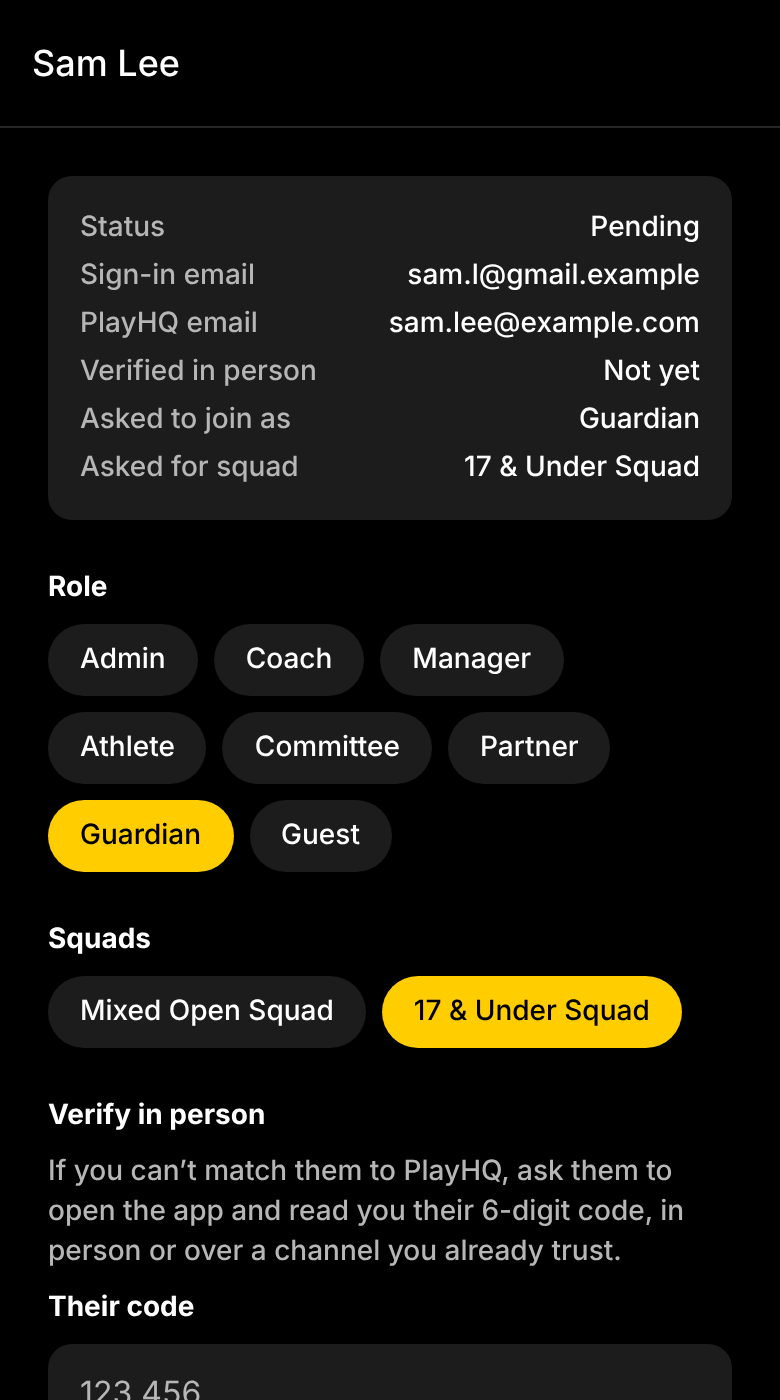
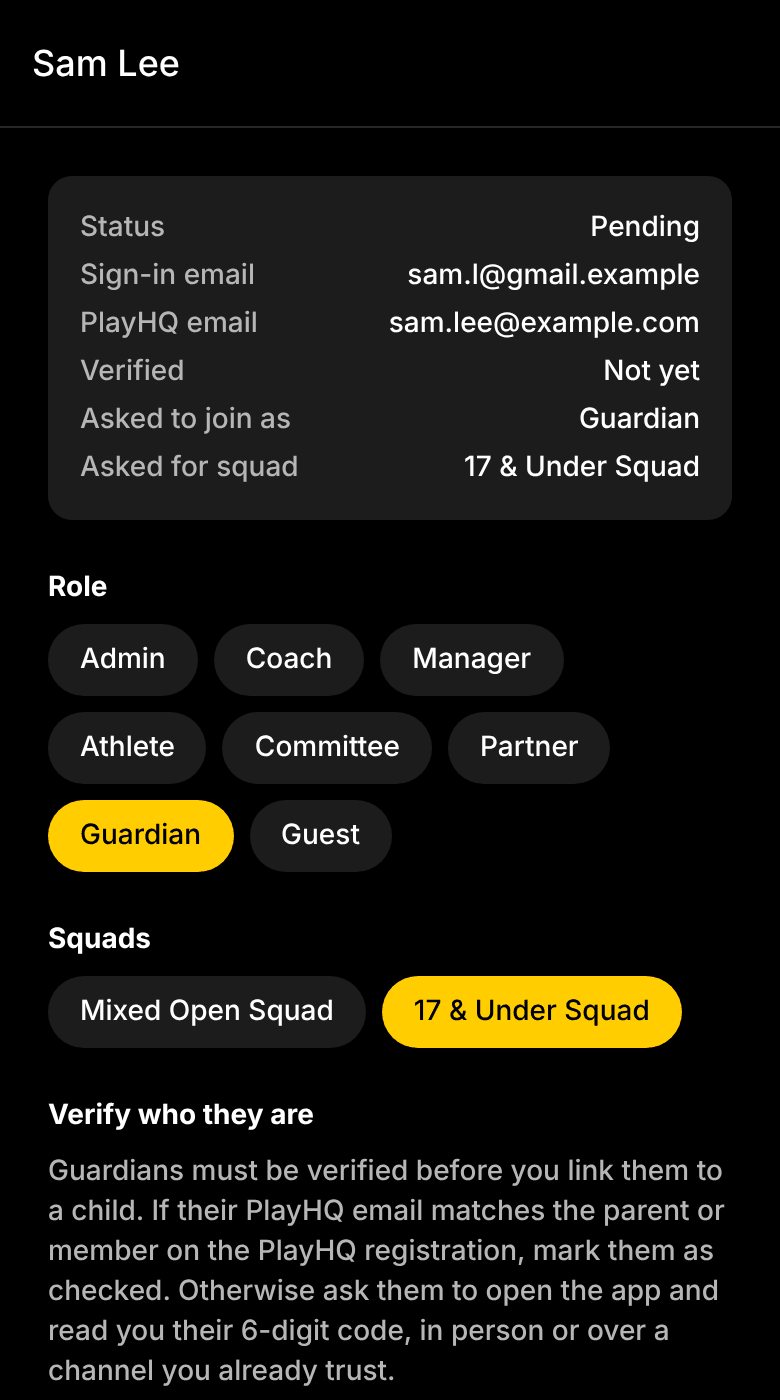
Add the child-safety changes to the user guide
Date of birth, verified guardians, Working With Children Checks, guardian
message copies, the check-in note line and the admin safety to-dos, with
updated screenshots.

Claude-Session: https://claude.ai/code/session_01Hk4Yufj92Hh8tciLvYkSd5

Changed region(s): [[0.0615, 0.7679, 0.9538, 1.0], [0.2462, 0.2457, 0.4, 0.2764], [0.3692, 0.7679, 0.4, 0.7986]]

diff --git a/docs/user-guide.md b/docs/user-guide.md
@@ -31,9 +31,9 @@ one or more **squads** or **teams** for the current season.
 | Role          | Who it's for                                                                                         |
 | ------------- | ---------------------------------------------------------------------------------------------------- |
 | **Athlete**   | Registered players.                                                                                  |
-| **Guardian**  | Parents and guardians of athletes under 17.                                                          |
-| **Coach**     | Head coaches and assistant coaches. Both have the same permissions; the title only shows who is who. |
-| **Manager**   | Squad and team managers.                                                                             |
+| **Guardian**  | Parents and guardians of athletes under 18.                                                          |
+| **Coach**     | Head coaches and assistant coaches. Both have the same permissions; the title only shows who is who. Need a current Working With Children Check. |
+| **Manager**   | Squad and team managers. Need a current Working With Children Check.                                 |
 | **Committee** | Club committee members.                                                                              |
 | **Partner**   | Club partners and sponsors.                                                                          |
 | **Guest**     | Anyone else the club lets in.                                                                        |
@@ -86,7 +86,8 @@ and fill in:
 - **Your name.**
 - **PlayHQ email**: only if you registered with PlayHQ using a different email to the Google account
   you signed in with. Parents and guardians must enter the email they used to register their
-  athlete, so the club can confirm who they are.
+  athlete, so the club can confirm who they are. An admin must verify a guardian before linking
+  them to a child.
 - **I am a**: the role that best describes you.
 - **Squad**: athletes, coaches, managers and guardians pick their squad (guardians pick their
   athlete's squad).
@@ -201,7 +202,8 @@ Once a day, answer four questions on a scale of 1 (bad) to 5 (good):
 - How stressed are you?
 - How's your mood?
 
-You can add a note for your coach, such as "tight calves after Sunday's game". Tap
+You can add a note for your coach, such as "tight calves after Sunday's game". The line under the
+note says who can read it: your coaches, and also your parents or guardians if you're under 18. Tap
 **Save check-in**. It takes about thirty seconds. You can change today's answers until the end of
 the day with **Update check-in**.
 
@@ -212,6 +214,7 @@ with low scores marked.
 Until you've checked in, "Do your daily check-in" stays in your to-do list.
 
 <img src="user-guide/check-in.png" width="210" alt="Daily check-in form and history">
+<img src="user-guide/check-in-note.png" width="210" alt="Check-in note, saying coaches and parents or guardians can read it">
 
 ### Reporting an injury
 
@@ -257,16 +260,22 @@ Documents can't be removed once they're sent, so the record can't be altered lat
 
 ## 5. Parents and guardians
 
-Parents and guardians of athletes under 17 sign in with their own Google account and ask to join
-as **Guardian**, entering the email they used to register their athlete with PlayHQ. An admin then
-links them to their athlete. A guardian can be linked to more than one athlete, and an athlete can
+Parents and guardians of athletes under 18 sign in with their own Google account and ask to join
+as **Guardian**, entering the email they used to register their athlete with PlayHQ. An admin
+verifies who you are (against PlayHQ, or with the 6-digit code on your home screen) and then links
+you to your athlete. Every athlete under 18 must have at least one verified guardian before they're
+approved. A guardian can be linked to more than one athlete, and an athlete can
 have more than one guardian.
 
 The home screen shows who you're the guardian of. Until an admin links you, it says so.
 
 As a guardian you:
 
-- **Receive the messages** sent to your athlete's squad, once an admin adds you to it.
+- **Receive a copy of every message** sent to your athlete, whether it went to their squad, their
+  team, all athletes or the whole club. You get each message once, even if you're also in the
+  squad.
+- **See your athlete's daily check-ins**, including any note they write. Your athlete is told that
+  you can read their notes.
 - **See the calendars** for your athlete's squad.
 - **Report and update injuries** for your athlete, and ask for clearance, exactly as an athlete
   does (see [Athletes](#4-athletes)). If you look after more than one athlete, choose which one
@@ -281,6 +290,9 @@ As a guardian you:
 Head coaches and assistant coaches have the same permissions. Everything below applies to the
 squads and teams you're listed in as a coach.
 
+Coaches and managers need a current Working With Children Check, recorded by an admin, before
+they're approved.
+
 After an admin marks a squad's **Selections Phase 2** complete, coaches look after only the
 athletes in their named teams. Before that, they look after everyone in the squad.
 
@@ -292,7 +304,8 @@ athletes in their named teams. Before that, they look after everyone in the squa
 2. Choose the squad or team (if you coach just one, it's already chosen).
 3. Write the message and tap **Send**.
 
-Everyone in that squad or team gets it, including the parents and guardians listed in it. Open
+Everyone in that squad or team gets it, including the parents and guardians listed in it. Parents
+and guardians of athletes under 18 always get a copy, even if they aren't in the squad. Open
 **Sent** to see how many people have read each message, and open a message to see exactly who has
 and hasn't read it. Club admins can read every message.
 
@@ -438,10 +451,13 @@ Partners also receive messages an admin sends to all partners.
 
 Admins can do everything above, plus run the club's set-up from **Administration** on the home
 screen. Admins' to-do lists include join requests waiting for approval and clearances waiting for
-sign-off. On an installed app, admins also get a push notification for each new join request.
+sign-off, plus child-safety follow-ups: athletes under 18 with no guardian linked, Working With
+Children Checks that are missing, expired or expire within 30 days, and athletes turning 18 within
+30 days. On an installed app, admins also get a push notification for each new join request.
 
 <img src="user-guide/admin-home.png" width="210" alt="Admin home screen">
 <img src="user-guide/administration.png" width="210" alt="Administration menu">
+<img src="user-guide/admin-safety-todos.png" width="210" alt="Admin to-dos for guardians, Working With Children Checks and athletes turning 18">
 
 ### Approving members
 
@@ -455,13 +471,25 @@ against PlayHQ, then:
 2. Choose their **Squads** and, once teams are named, **Teams**. For coaches, choose **Head Coach**
    or **Assistant Coach** for each group. For athletes in a team, choose **Touring athlete** or
    **Training partner**.
-3. For athletes, set **Age** to Under 17 or 17 or over. Under-17 athletes get a **Parents and
-   guardians** section: search for an approved guardian and tap to link them (tap ✕ to unlink).
-4. Tap **Approve**.
+3. For athletes, enter their **Date of birth** (DD/MM/YYYY). Anyone under 18 gets a **Parents and
+   guardians** section: search for a guardian and tap to link them (tap ✕ to unlink). Only
+   verified guardians can be linked; unverified ones show "(not verified)". Until you have a date of
+   birth, choose **Under 18** or **18 or over** instead.
+4. For coaches and managers, enter their **Working With Children Check** card number and expiry
+   date.
+5. Tap **Approve**.
 
-If you can't match someone to PlayHQ, ask them to read you the 6-digit code from their home screen
-in person or over a channel you already trust. Enter it under **Verify in person** and tap
-**Check code**. The member then shows as "Verified in person".
+The app won't approve or save:
+
+- an athlete under 18 without at least one verified guardian;
+- a coach or manager without a current Working With Children Check.
+
+**Verifying someone.** Guardians must be verified before they can be linked to a child. If their
+PlayHQ email matches the registration, tap **Checked against PlayHQ**. Otherwise ask them to read
+you the 6-digit code from their home screen in person or over a channel you already trust, enter it
+under **Their code** and tap **Check code**. The member then shows as "Verified".
+
+When an athlete turns 18, the next time you save them their guardian links are removed.
 
 To turn someone down, choose a reason (**PlayHQ email doesn't match**, **Not registered with the
 club** or **Other**) and tap **Don't approve**. They see the reason and can request again.
@@ -470,8 +498,9 @@ club** or **Other**) and tap **Don't approve**. They see the reason and can requ
 <img src="user-guide/member-approve.png" width="210" alt="Approving a guardian's request">
 <img src="user-guide/member-new.png" width="210" alt="Approving an athlete's request">
 
-<img src="user-guide/member-under-17.png" width="210" alt="Under-17 athlete with guardians linked">
-<img src="user-guide/member-guardian.png" width="210" alt="Guardian showing their athlete">
+<img src="user-guide/member-under-18.png" width="210" alt="Athlete under 18 with date of birth and guardians linked">
+<img src="user-guide/member-guardian.png" width="210" alt="Guardian showing their athlete, waiting to be verified">
+<img src="user-guide/member-wwcc.png" width="210" alt="Coach with Working With Children Check fields">
 
 ### Changing or removing members
 
@@ -564,9 +593,10 @@ once saved, only replaced or removed.
 | Information             | Who can see it                                                                                                              |
 | ----------------------- | --------------------------------------------------------------------------------------------------------------------------- |
 | Your profile and squads | You, the people in your squads and teams (names and positions only), and admins.                                            |
-| Messages                | The people they were sent to, the sender, and admins. Guardians get their athlete's squad messages.                         |
+| Date of birth and Working With Children Check | You and admins.                                                                                       |
+| Messages                | The people they were sent to, the sender, and admins. Guardians of athletes under 18 get a copy of every message sent to their athlete. |
 | Read receipts           | The sender and admins.                                                                                                      |
-| Daily check-in answers  | The athlete, their guardians and their coaches. The committee and admins see only group averages, hidden below 3 check-ins. |
+| Daily check-in answers and notes | The athlete, their guardians and their coaches. The committee and admins see only group averages, hidden below 3 check-ins. |
 | Injuries and documents  | The athlete, their guardians, their coaches, the committee and admins. Managers don't see injuries.                         |
 | Attendance records      | Coaches, the committee and admins. Managers see their own groups' sessions. Athletes and guardians don't see attendance.    |
 | Committee calendar      | Committee members and admins.                                                                                               |
